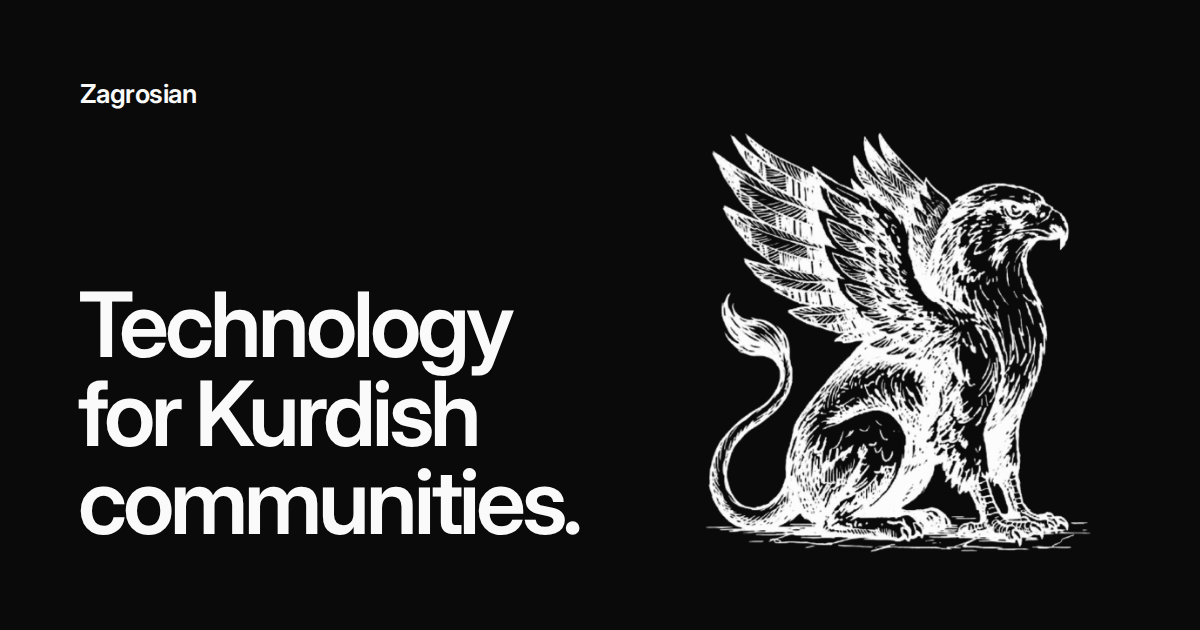
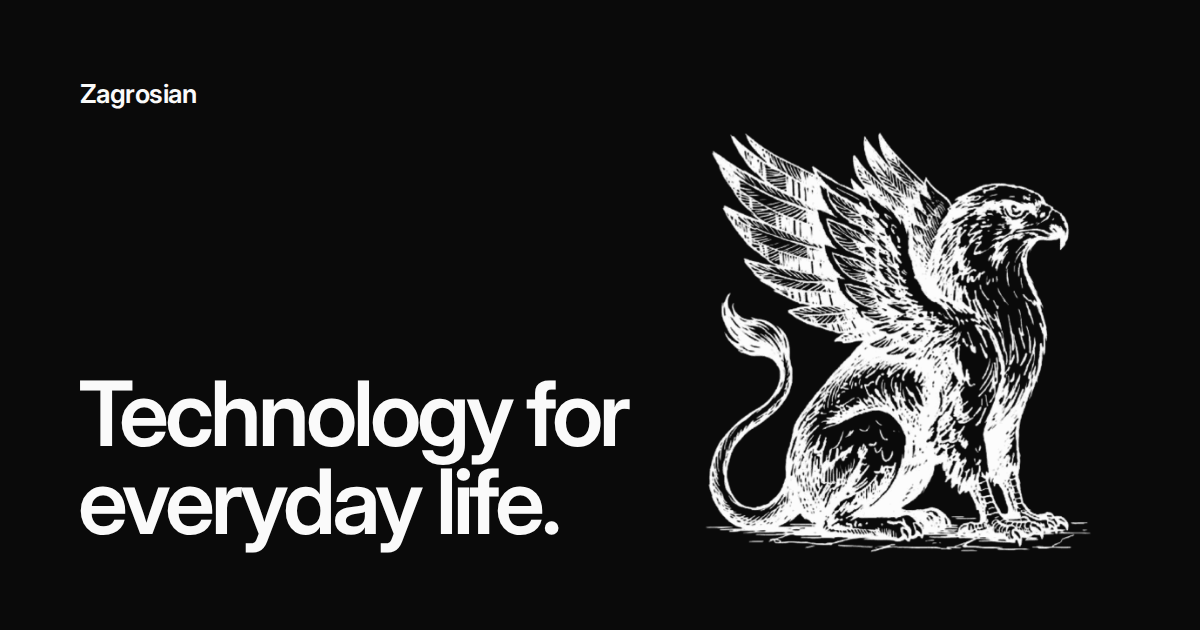
Position Zagrosian as a broad consumer technology company
Zagrosian is no longer described as serving Kurdish communities only.
It is now an independent consumer technology company whose first
product, Hevalo, is an app for learning Kurdish.

- Hero: "Technology for everyday life." with a lead naming the company,
  its base in the Netherlands and Hevalo as the first product.
- About: the mission is software people enjoy using every day, fast,
  private and well designed.
- The tagline, title, meta description, manifest, social image,
  structured data and llms.txt follow automatically from src/site.ts.

The Kurdish motto, the footer line and the Hevalo section are unchanged.

Claude-Session: https://claude.ai/code/session_01KBBHZvrbeW3Uqd7RrncA8Y

Changed region(s): [[0.0617, 0.4524, 0.5242, 0.8746]]

diff --git a/src/site.ts b/src/site.ts
@@ -62,10 +62,10 @@ export const site: SiteConfig = {
   legalName: 'Zagrosian',
   url: 'https://zagrosian.com',
   country: 'the Netherlands',
-  tagline: 'Technology for Kurdish communities.',
-  title: 'Zagrosian — Technology for Kurdish communities',
+  tagline: 'Technology for everyday life.',
+  title: 'Zagrosian — Technology for everyday life',
   description:
-    'Zagrosian is an independent technology company building consumer products for Kurdish speakers worldwide, including the language-learning app Hevalo.',
+    'Zagrosian is an independent technology company based in the Netherlands. We design and build consumer products, starting with Hevalo, an app for learning Kurdish.',
   emails: {
     contact: 'contact@zagrosian.com',
     press: 'press@zagrosian.com',
@@ -81,11 +81,11 @@ export const headquarters = site.country.replace(/^the /, '');
  * built from this, so they always say the same thing.
  */
 export const home = {
-  headline: ['Technology', 'for Kurdish', 'communities.'],
-  lead: `${site.name} is an independent technology company. We build consumer products for Kurdish speakers worldwide, including the language-learning app ${hevalo.name}.`,
+  headline: ['Technology for', 'everyday life.'],
+  lead: `${site.name} is an independent technology company based in ${site.country}. We design and build consumer products, starting with ${hevalo.name}, an app for learning Kurdish.`,
   motto: { ku: 'Jiyan bi kurdî xweştire.', en: 'Life is sweeter in Kurdish.' },
-  mission: 'Our mission is to support the Kurdish language and its speakers through technology.',
-  approach: `${site.name} is privately owned. We design and build our products in-house, with a strong focus on quality and privacy.`,
+  mission: 'Our mission is to build software people enjoy using every day: fast, private and well designed.',
+  approach: `${site.name} is privately owned. We design and build our products in-house.`,
   contact: 'For general enquiries and partnerships, please contact us by email.',
   footerMotto: { ku: 'Ji Kurdan, ji bo Kurdan.', en: 'By Kurds, for Kurds.' },
 };
